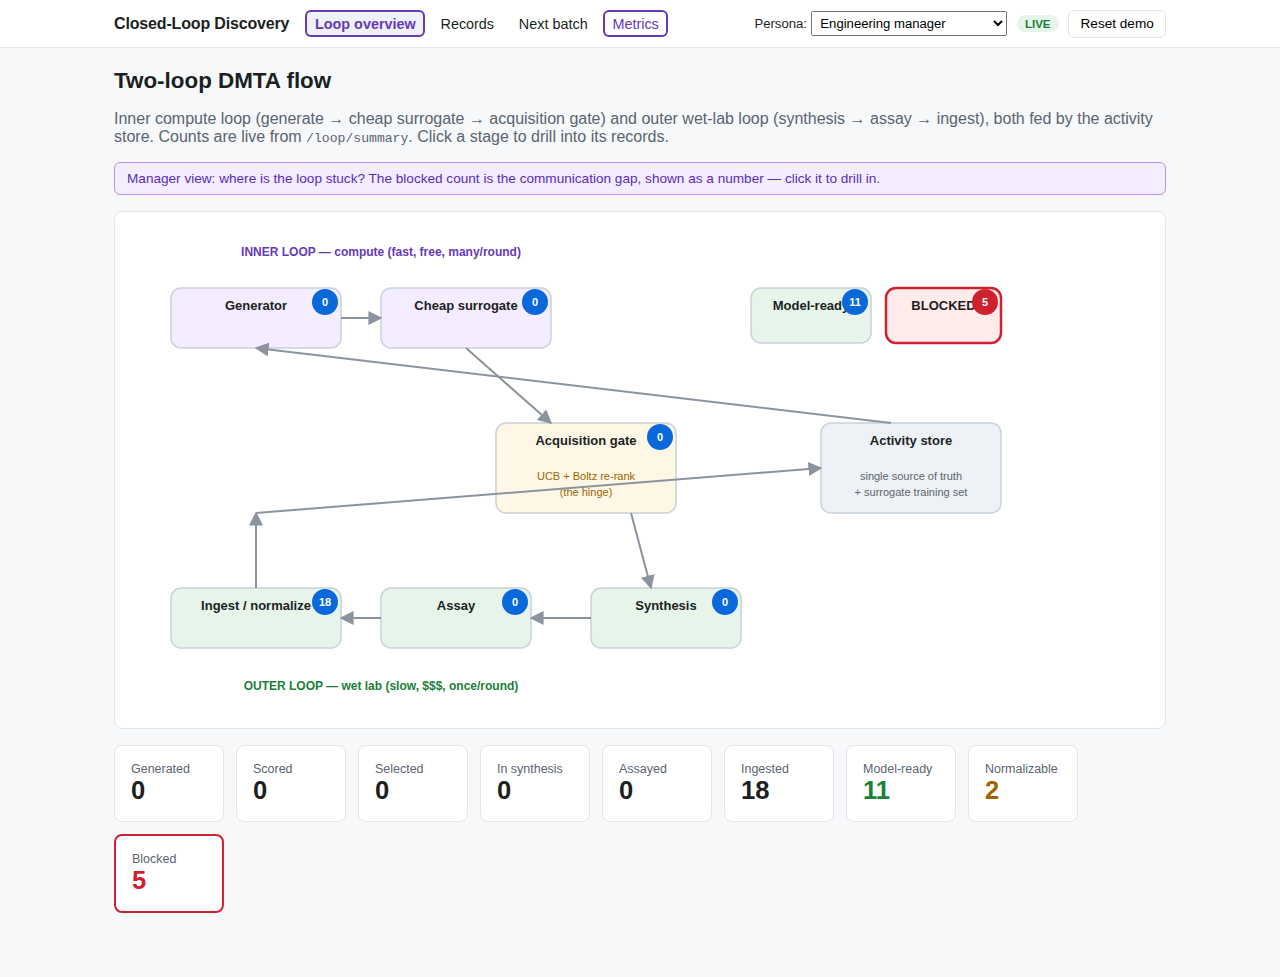
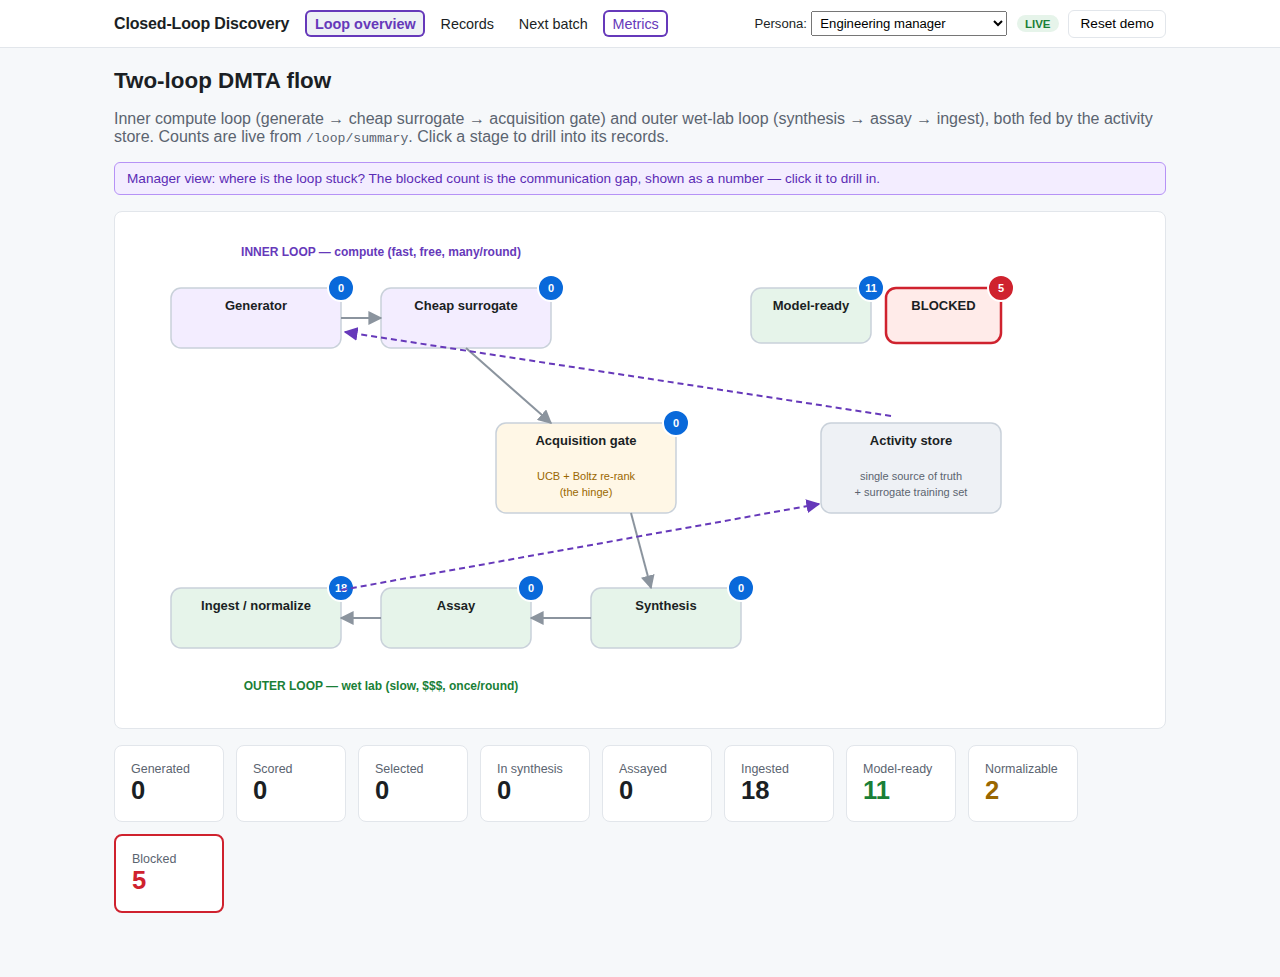
Fix overview SVG graphical flaws; polish acquisition badge; order-align boltz results
Graphical fixes (from screenshot review):
- Loop overview: count badges moved to node corners (notification-style) so
  they no longer overlap labels (Model-ready/BLOCKED/Ingest-normalize)
- Loop overview: reroute the two data-feed arrows as dashed accents through the
  gaps so the ingest->store feed no longer passes through the Acquisition gate box
- Acquisition: predicted badge no longer uppercases the micro sign (was 'LOG-MM');
  now renders 'PREDICTED · log-µM'

Code review improvement:
- boltz_client.screen/adme now return results aligned to input order even with a
  partial cache (+ test); dedupe inchikey helper

Claude-Session: https://claude.ai/code/session_01RJ2rKvpR7yjEAKKYWNXCT9

diff --git a/frontend/src/views/LoopOverview.tsx b/frontend/src/views/LoopOverview.tsx
@@ -54,15 +54,19 @@ function Stage({
       </text>
       {count != null && (
         <>
+          {/* notification-style badge straddling the top-right corner, so it
+              never overlaps the (centered) node label */}
           <circle
-            cx={x + w - 16}
-            cy={y + 14}
+            cx={x + w}
+            cy={y}
             r={13}
             fill={highlight ? "#cf222e" : "#0969da"}
+            stroke="#fff"
+            strokeWidth={2}
           />
           <text
-            x={x + w - 16}
-            y={y + 18}
+            x={x + w}
+            y={y + 4}
             textAnchor="middle"
             fontSize="11"
             fontWeight="700"
@@ -81,11 +85,13 @@ function Arrow({
   y1,
   x2,
   y2,
+  feed,
 }: {
   x1: number;
   y1: number;
   x2: number;
   y2: number;
+  feed?: boolean; // dashed accent = data feed (vs solid process flow)
 }) {
   return (
     <line
@@ -93,9 +99,10 @@ function Arrow({
       y1={y1}
       x2={x2}
       y2={y2}
-      stroke="#8b949e"
+      stroke={feed ? "#6639ba" : "#8b949e"}
       strokeWidth={2}
-      markerEnd="url(#arrow)"
+      strokeDasharray={feed ? "6 4" : undefined}
+      markerEnd={feed ? "url(#arrow-feed)" : "url(#arrow)"}
     />
   );
 }
@@ -146,6 +153,17 @@ export default function LoopOverview() {
               orient="auto-start-reverse"
             >
               <path d="M 0 0 L 10 5 L 0 10 z" fill="#8b949e" />
+            </marker>
+            <marker
+              id="arrow-feed"
+              viewBox="0 0 10 10"
+              refX="9"
+              refY="5"
+              markerWidth="7"
+              markerHeight="7"
+              orient="auto-start-reverse"
+            >
+              <path d="M 0 0 L 10 5 L 0 10 z" fill="#6639ba" />
             </marker>
           </defs>
 
@@ -219,11 +237,12 @@ export default function LoopOverview() {
           {/* synthesis -> assay -> ingest */}
           <Arrow x1={460} y1={390} x2={400} y2={390} />
           <Arrow x1={250} y1={390} x2={210} y2={390} />
-          {/* ingest -> activity store (feed) */}
-          <Arrow x1={125} y1={360} x2={125} y2={285} />
-          <Arrow x1={125} y1={285} x2={690} y2={240} />
-          {/* activity store -> generator (substrate feed, training) */}
-          <Arrow x1={760} y1={195} x2={125} y2={120} />
+          {/* ingest -> activity store (data feed, routed through the gap below
+              the gate so it never crosses a node box) */}
+          <Arrow x1={210} y1={362} x2={688} y2={276} feed />
+          {/* activity store -> generator (substrate + training feed, routed
+              through the gap above the gate) */}
+          <Arrow x1={760} y1={188} x2={214} y2={104} feed />
 
           {/* model-ready + blocked summary badges (clickable) */}
           <Stage

diff --git a/frontend/src/views/Acquisition.tsx b/frontend/src/views/Acquisition.tsx
@@ -35,7 +35,7 @@ function CandidateCard({ c }: { c: AcquisitionCandidate }) {
         <span className="muted">Boltz affinity</span>
         <span style={{ display: "flex", alignItems: "center", gap: "0.4rem", flexWrap: "wrap" }}>
           {c.boltz_affinity != null ? fmtNum(c.boltz_affinity) : "—"}
-          <span className="predicted-badge">predicted · log-µM</span>
+          <span className="predicted-badge">PREDICTED · log-µM</span>
         </span>
         <span className="muted">ADMET</span>
         <span>

diff --git a/frontend/src/index.css b/frontend/src/index.css
@@ -258,7 +258,6 @@ tbody tr.selected {
   letter-spacing: 0.03em;
   padding: 0.15rem 0.5rem;
   border-radius: 4px;
-  text-transform: uppercase;
   display: inline-block;
   white-space: nowrap;
 }

diff --git a/backend/app/boltz_client.py b/backend/app/boltz_client.py
@@ -155,23 +155,23 @@ class BoltzClient:
         self._cache[cache_key] = out
         return out
 
-    def screen(self, target, smiles: list[str]) -> list[dict]:
-        """Affinity proxy (log-µM) per SMILES. Cached per (target, inchikey)."""
+    @staticmethod
+    def _ik_or_self(smi: str) -> str:
         from .identity import inchikey as _ik
 
+        try:
+            return _ik(smi)
+        except Exception:
+            return smi
+
+    def screen(self, target, smiles: list[str]) -> list[dict]:
+        """Affinity proxy (log-µM) per SMILES. Cached per (target, inchikey).
+
+        Returns one result per input SMILES, aligned to input order.
+        """
         th = _target_hash(target)
-        results: list[dict] = []
-        to_compute: list[str] = []
-        for smi in smiles:
-            try:
-                ik = _ik(smi)
-            except Exception:
-                ik = smi
-            ck = ("screen", th, ik)
-            if ck in self._cache:
-                results.append(self._cache[ck])
-            else:
-                to_compute.append(smi)
+        keys = [("screen", th, self._ik_or_self(smi)) for smi in smiles]
+        to_compute = [smi for smi, k in zip(smiles, keys) if k not in self._cache]
 
         if to_compute:
             est = COST_SCREEN_PER_MOL * len(to_compute)
@@ -182,30 +182,17 @@ class BoltzClient:
                 computed = self._live_screen(target, to_compute, th)
                 self._charge(est)
             for smi, res in zip(to_compute, computed):
-                try:
-                    ik = _ik(smi)
-                except Exception:
-                    ik = smi
-                self._cache[("screen", th, ik)] = res
-                results.append(res)
-        return results
+                self._cache[("screen", th, self._ik_or_self(smi))] = res
+
+        return [self._cache[k] for k in keys]
 
     def adme(self, smiles: list[str]) -> list[dict]:
-        """ADMET flags per SMILES. Cached per inchikey (target-independent)."""
-        from .identity import inchikey as _ik
+        """ADMET flags per SMILES. Cached per inchikey (target-independent).
 
-        results: list[dict] = []
-        to_compute: list[str] = []
-        for smi in smiles:
-            try:
-                ik = _ik(smi)
-            except Exception:
-                ik = smi
-            ck = ("adme", ik)
-            if ck in self._cache:
-                results.append(self._cache[ck])
-            else:
-                to_compute.append(smi)
+        Returns one result per input SMILES, aligned to input order.
+        """
+        keys = [("adme", self._ik_or_self(smi)) for smi in smiles]
+        to_compute = [smi for smi, k in zip(smiles, keys) if k not in self._cache]
 
         if to_compute:
             est = COST_ADME_PER_MOL * len(to_compute)
@@ -216,12 +203,9 @@ class BoltzClient:
                 computed = self._live_adme(to_compute)
                 self._charge(est)
             for smi, res in zip(to_compute, computed):
-                try:
-                    ik = _ik(smi)
-                except Exception:
-                    ik = smi
-                self._cache[("adme", ik)] = res
-                results.append(res)
+                self._cache[("adme", self._ik_or_self(smi))] = res
+
+        return [self._cache[k] for k in keys]
         return results
 
     # ------------------------------------------------------------------ #

diff --git a/backend/tests/test_boltz_client.py b/backend/tests/test_boltz_client.py
@@ -47,6 +47,15 @@ def test_cache_avoids_recompute():
     assert len(again) == 3
 
 
+def test_screen_results_aligned_to_input_order_with_partial_cache():
+    c = _mock_client()
+    smis = [x["smiles"] for x in c.design(TARGET, 5)]
+    # prime the cache with a middle subset, then screen the full list
+    c.screen(TARGET, [smis[2]])
+    out = c.screen(TARGET, smis)
+    assert [r["smiles"] for r in out] == smis  # one per input, in order
+
+
 def test_credit_guard_refuses_when_no_key_and_not_mock():
     # not mock, would attempt to charge; small cap -> refuse before spending
     c = BoltzClient(api_key="fake", mock=False, max_spend_usd=0.0)
